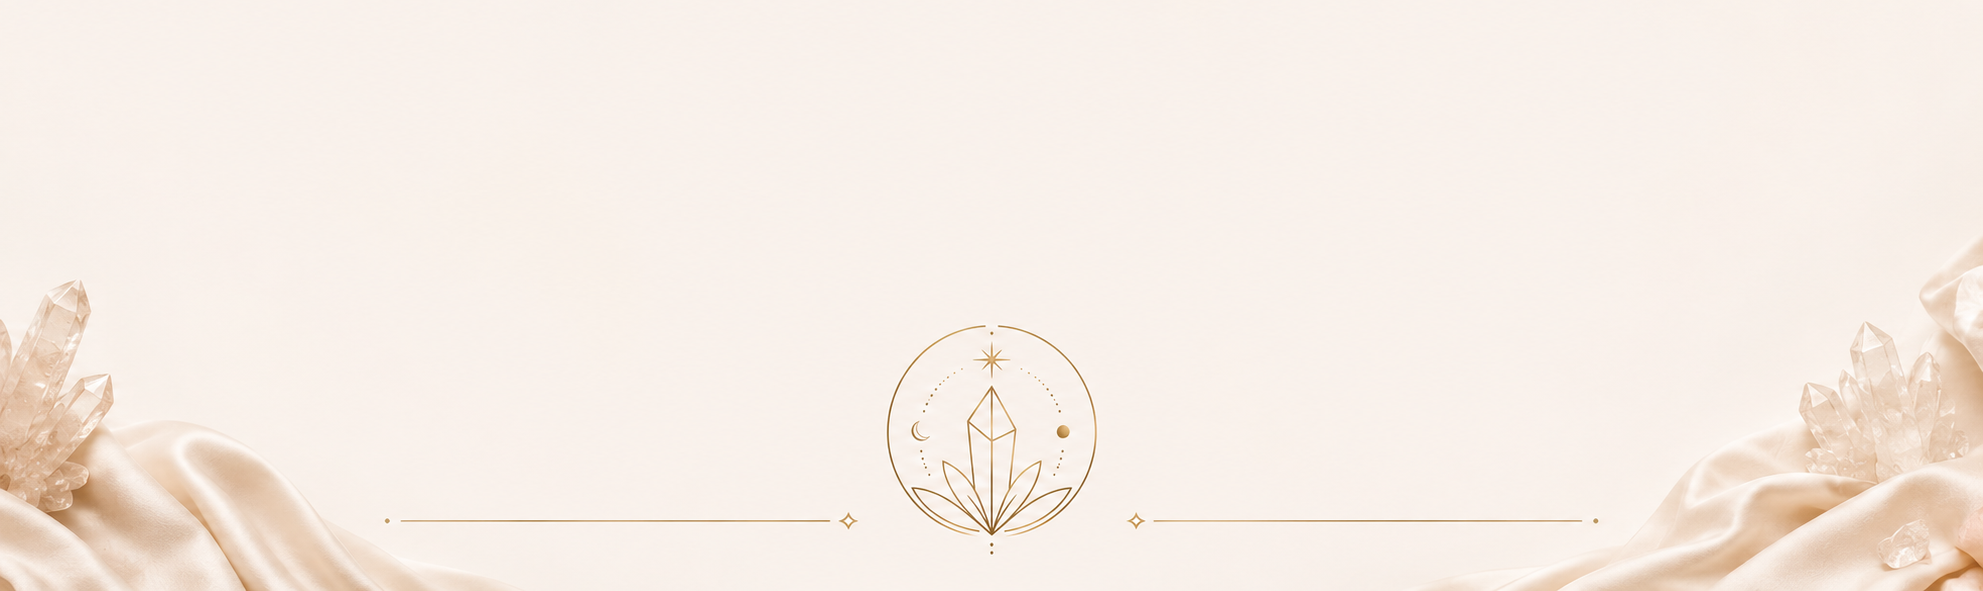
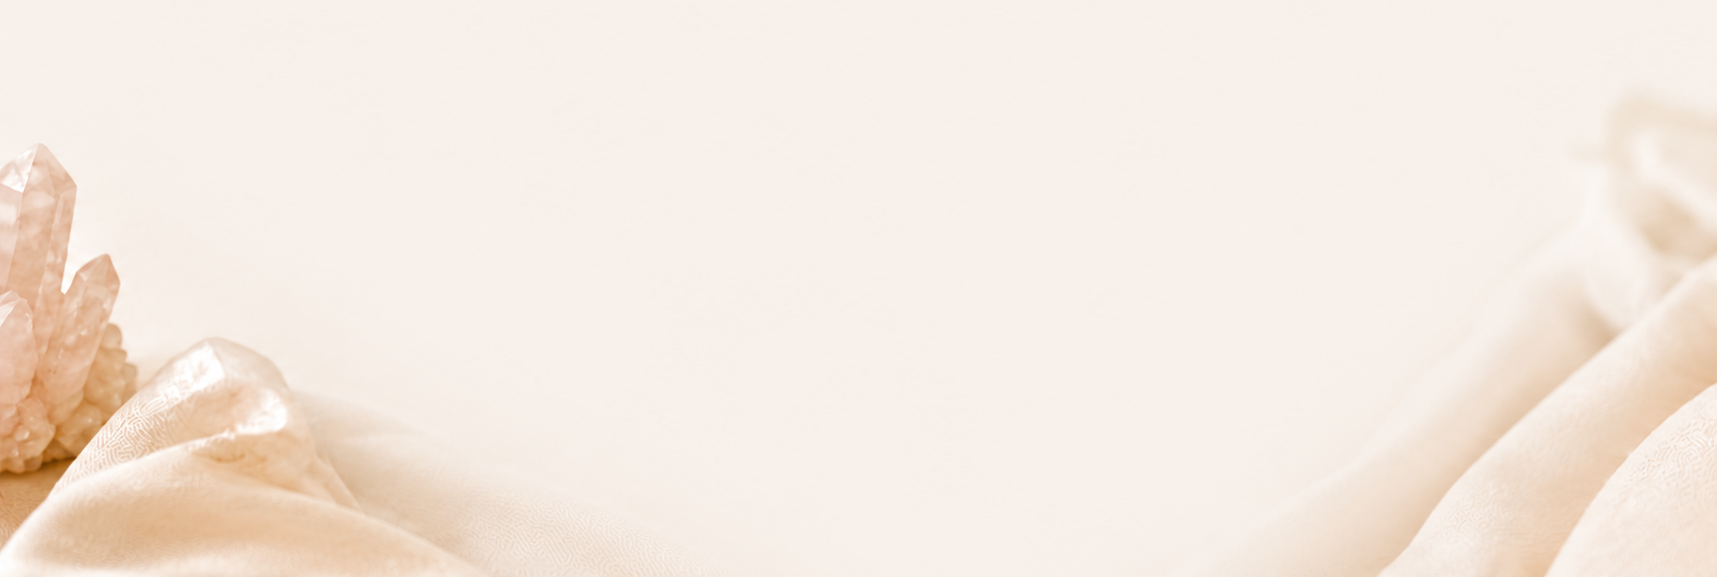
update footer

diff --git a/app/faq/page.tsx b/app/faq/page.tsx
@@ -1,0 +1,315 @@
+'use client'
+
+import { useState } from 'react'
+import Image from 'next/image'
+import Link from 'next/link'
+
+const SERIF: React.CSSProperties = { fontFamily: "'Cormorant Garamond', serif" }
+const BODY: React.CSSProperties  = { fontFamily: "'Montserrat', sans-serif" }
+
+/* ── FAQ data ──────────────────────────────────────────────────────── */
+
+const FAQS = [
+  {
+    q: 'How is my crystal bracelet personalized?',
+    a: 'We use your birth date and personal intention to analyze your Five Elements balance and energetic needs. Our AI then recommends the crystal combination that best supports your unique journey and goals — no two bracelets are ever the same.',
+  },
+  {
+    q: 'What are the Five Elements?',
+    a: 'Wood, Fire, Earth, Metal, and Water are the five fundamental energies that govern nature and our inner world. Each person carries a unique elemental composition that shapes their emotions, health, relationships, and energy flow. Understanding your elemental balance is the foundation of every SYANN bracelet.',
+  },
+  {
+    q: 'Are the crystals natural and authentic?',
+    a: 'Yes. Every SYANN bracelet is crafted using genuine, ethically sourced natural gemstones. Each crystal is carefully selected for quality, clarity, and energetic resonance — never synthetic, never dyed.',
+  },
+  {
+    q: 'How do I choose my intention?',
+    a: 'Your intention is the area of life you most want to nurture right now — whether it\'s love, career growth, emotional healing, confidence, or inner calm. There are no wrong answers. Choose what resonates most deeply with you in this moment.',
+  },
+  {
+    q: 'Can I wear my bracelet every day?',
+    a: 'Yes. Natural stone bracelets are designed for daily wear. In fact, consistent wear deepens the connection between the crystals\' energy and your own, allowing their resonance to integrate more fully into your energy field over time.',
+  },
+  {
+    q: 'Is it safe for sensitive skin?',
+    a: 'SYANN bracelets use natural stone beads and high-quality elastic cord. They are free from metals and chemical coatings, making them suitable for most skin types. If you have specific sensitivities, please contact us before purchasing and we will guide you personally.',
+  },
+  {
+    q: 'How long does shipping take?',
+    a: 'Standard shipping takes 5–10 business days depending on your location. Expedited options are available at checkout. All orders are carefully packed and fully tracked from our studio to your door.',
+  },
+  {
+    q: 'How do I care for my bracelet?',
+    a: 'Avoid prolonged exposure to water, perfume, and direct sunlight to preserve the stones\' natural luster. Cleanse your crystals periodically by placing them under moonlight or resting them on a selenite plate overnight. Store your bracelet separately to prevent scratching.',
+  },
+]
+
+/* ── small reusable pieces ─────────────────────────────────────────── */
+
+function SectionLabel({ children }: { children: React.ReactNode }) {
+  return (
+    <p className="mb-3 text-[10px] font-semibold uppercase tracking-[0.38em]"
+       style={{ color: '#B08B57', ...BODY }}>
+      {children}
+    </p>
+  )
+}
+
+function GoldBar() {
+  return <div className="mb-6 h-[1.5px] w-9" style={{ background: '#B08B57' }} />
+}
+
+function DiamondDivider() {
+  return (
+    <div className="flex items-center gap-0 my-7" style={{ maxWidth: 240 }}>
+      <div className="flex-1 h-px" style={{ background: 'linear-gradient(to right, rgba(176,139,87,0.5), transparent)' }} />
+      <svg width="8" height="8" viewBox="0 0 8 8" className="mx-3 shrink-0" aria-hidden="true">
+        <polygon points="4,0 8,4 4,8 0,4" fill="#B08B57" opacity="0.7" />
+      </svg>
+      <div className="flex-1 h-px" style={{ background: 'linear-gradient(to left, rgba(176,139,87,0.5), transparent)' }} />
+    </div>
+  )
+}
+
+/* ── accordion item ────────────────────────────────────────────────── */
+
+function AccordionItem({
+  question, answer, index, isOpen, onToggle,
+}: {
+  question: string
+  answer: string
+  index: number
+  isOpen: boolean
+  onToggle: () => void
+}) {
+  return (
+    <div
+      className="rounded-2xl transition-all duration-300"
+      style={{
+        background: isOpen ? '#FDFAF6' : '#FAF7F3',
+        border: `1px solid ${isOpen ? 'rgba(176,139,87,0.3)' : 'rgba(176,139,87,0.15)'}`,
+        boxShadow: isOpen ? '0 8px 32px -8px rgba(101,70,46,0.12)' : 'none',
+      }}
+    >
+      <button
+        type="button"
+        onClick={onToggle}
+        className="w-full text-left flex items-center gap-5 px-7 py-6 group"
+        aria-expanded={isOpen}
+      >
+        {/* Number */}
+        <span
+          className="shrink-0 text-[11px] font-semibold tabular-nums"
+          style={{ color: '#C9A96E', letterSpacing: '0.1em', ...BODY }}
+        >
+          {String(index + 1).padStart(2, '0')}
+        </span>
+
+        {/* Question */}
+        <span
+          className="flex-1 text-[15px] font-light leading-snug transition-colors duration-200"
+          style={{
+            ...SERIF,
+            color: isOpen ? '#3D2B1F' : '#5C4030',
+            fontSize: 17,
+          }}
+        >
+          {question}
+        </span>
+
+        {/* Expand / collapse icon */}
+        <span
+          className="shrink-0 flex h-7 w-7 items-center justify-center rounded-full transition-all duration-300"
+          style={{
+            background: isOpen ? 'rgba(176,139,87,0.14)' : 'transparent',
+            border: `1px solid ${isOpen ? 'rgba(176,139,87,0.4)' : 'rgba(176,139,87,0.25)'}`,
+            color: '#B08B57',
+            transform: isOpen ? 'rotate(45deg)' : 'rotate(0deg)',
+          }}
+        >
+          <svg width="11" height="11" viewBox="0 0 12 12" fill="none" stroke="currentColor" strokeWidth="1.6" strokeLinecap="round">
+            <line x1="6" y1="1" x2="6" y2="11" />
+            <line x1="1" y1="6" x2="11" y2="6" />
+          </svg>
+        </span>
+      </button>
+
+      {/* Answer */}
+      <div
+        style={{
+          maxHeight: isOpen ? 400 : 0,
+          overflow: 'hidden',
+          transition: 'max-height 0.4s cubic-bezier(0.4,0,0.2,1)',
+        }}
+      >
+        <div className="px-7 pb-7 pt-0 flex gap-5">
+          {/* Left accent bar */}
+          <div className="shrink-0 mt-1" style={{ width: 1.5, background: 'linear-gradient(to bottom, #B08B57, transparent)', borderRadius: 2, minHeight: 40 }} />
+          <p
+            className="text-[13px] leading-[1.95]"
+            style={{ color: '#7A6355', ...BODY }}
+          >
+            {answer}
+          </p>
+        </div>
+      </div>
+    </div>
+  )
+}
+
+/* ── page ──────────────────────────────────────────────────────────── */
+
+export default function FAQPage() {
+  const [openIndex, setOpenIndex] = useState<number | null>(0)
+
+  const toggle = (i: number) => setOpenIndex(prev => (prev === i ? null : i))
+
+  return (
+    <main style={{ background: '#F6F1EB', color: '#4A3A32', ...BODY }}>
+
+      {/* ════════════════════════════════════════════════════
+          1 · HERO
+      ════════════════════════════════════════════════════ */}
+      <section className="grid grid-cols-1 lg:grid-cols-2 min-h-[72vh]">
+
+        {/* Left */}
+        <div className="flex flex-col justify-center px-10 py-20 lg:px-20 lg:py-0">
+          <SectionLabel>FAQ</SectionLabel>
+          <GoldBar />
+
+          <h1
+            style={{ ...SERIF }}
+            className="text-5xl font-light leading-[1.15] text-[#3D2B1F] lg:text-6xl"
+          >
+            Frequently
+            <br />Asked Questions
+          </h1>
+
+          <DiamondDivider />
+
+          <p className="text-[13.5px] leading-[1.9] text-[#7A6355] max-w-sm">
+            Everything you need to know about SYANN, our crystals, and your
+            personalized bracelet journey.
+          </p>
+
+          {/* Soft glow accent */}
+          <div
+            className="mt-12 inline-flex items-center gap-2.5 text-[11px] font-medium uppercase tracking-[0.28em]"
+            style={{ color: '#B08B57', ...BODY }}
+          >
+            <svg width="14" height="14" viewBox="0 0 24 24" fill="none" stroke="currentColor" strokeWidth="1.4" strokeLinecap="round" strokeLinejoin="round">
+              <polygon points="12 2 17 9 12 22 7 9" />
+              <line x1="7" y1="9" x2="17" y2="9" />
+            </svg>
+            8 questions answered below
+          </div>
+        </div>
+
+        {/* Right — image */}
+        <div className="relative min-h-[440px] lg:min-h-0 m-6 lg:m-8 overflow-hidden rounded-3xl shadow-[0_24px_64px_-16px_rgba(101,70,46,0.22)]"
+             style={{ background: '#EDE4D8' }}>
+          <Image
+            src="/faq-hero.jpg"
+            alt="SYANN crystal bracelet editorial"
+            fill
+            className="object-cover"
+            priority
+          />
+          <div className="absolute inset-0" style={{ background: 'rgba(244,238,230,0.1)' }} />
+        </div>
+
+      </section>
+
+
+      {/* ════════════════════════════════════════════════════
+          2 · FAQ ACCORDION
+      ════════════════════════════════════════════════════ */}
+      <section className="py-24 px-6">
+        <div className="mx-auto max-w-3xl">
+
+          {/* Section header */}
+          <div className="text-center mb-14">
+            <SectionLabel>Your Questions</SectionLabel>
+            <h2 style={{ ...SERIF }} className="text-4xl font-light text-[#3D2B1F] lg:text-5xl">
+              All you need to know
+            </h2>
+          </div>
+
+          {/* Accordion list */}
+          <div className="flex flex-col gap-3">
+            {FAQS.map((faq, i) => (
+              <AccordionItem
+                key={i}
+                index={i}
+                question={faq.q}
+                answer={faq.a}
+                isOpen={openIndex === i}
+                onToggle={() => toggle(i)}
+              />
+            ))}
+          </div>
+
+          {/* Subtle bottom ornament */}
+          <div className="mt-14 flex items-center gap-0">
+            <div className="flex-1 h-px" style={{ background: 'linear-gradient(to right, transparent, rgba(176,139,87,0.3))' }} />
+            <svg width="10" height="10" viewBox="0 0 10 10" className="mx-4 shrink-0" aria-hidden="true">
+              <polygon points="5,0 10,5 5,10 0,5" fill="#B08B57" opacity="0.45" />
+            </svg>
+            <div className="flex-1 h-px" style={{ background: 'linear-gradient(to left, transparent, rgba(176,139,87,0.3))' }} />
+          </div>
+
+        </div>
+      </section>
+
+
+      {/* ════════════════════════════════════════════════════
+          3 · CONTACT CTA
+      ════════════════════════════════════════════════════ */}
+      <section className="px-6 pb-28">
+        <div
+          className="mx-auto max-w-3xl flex flex-col sm:flex-row items-center justify-between gap-8 rounded-3xl px-10 py-10"
+          style={{
+            background: 'linear-gradient(135deg, #F4EDE2 0%, #EDE4D6 100%)',
+            border: '1px solid rgba(176,139,87,0.2)',
+            boxShadow: '0 16px 48px -12px rgba(101,70,46,0.14)',
+          }}
+        >
+          {/* Left */}
+          <div className="flex items-start gap-5">
+            <div
+              className="flex h-12 w-12 shrink-0 items-center justify-center rounded-full"
+              style={{ background: 'rgba(176,139,87,0.12)', color: '#B08B57' }}
+            >
+              <svg width="22" height="22" viewBox="0 0 24 24" fill="none" stroke="currentColor" strokeWidth="1.3" strokeLinecap="round" strokeLinejoin="round">
+                <polygon points="12 2 17 9 12 22 7 9" />
+                <line x1="7" y1="9" x2="17" y2="9" />
+              </svg>
+            </div>
+            <div>
+              <h3 style={{ ...SERIF }} className="text-2xl font-light text-[#3D2B1F] mb-1.5">
+                Still have questions?
+              </h3>
+              <p className="text-[13px] text-[#9A8070] leading-relaxed" style={{ ...BODY }}>
+                We're here to help you on your journey.
+              </p>
+            </div>
+          </div>
+
+          {/* Right — button */}
+          <Link
+            href="/contact"
+            className="shrink-0 inline-flex items-center gap-2.5 rounded-full px-8 py-3.5 text-[11px] font-semibold uppercase tracking-[0.28em] text-white transition-all duration-300 hover:shadow-lg hover:opacity-90"
+            style={{ background: '#B08B57', ...BODY }}
+          >
+            Contact Us
+            <svg width="11" height="11" viewBox="0 0 24 24" fill="none" stroke="currentColor" strokeWidth="2.2" strokeLinecap="round" strokeLinejoin="round">
+              <line x1="5" y1="12" x2="19" y2="12" />
+              <polyline points="12 5 19 12 12 19" />
+            </svg>
+          </Link>
+        </div>
+      </section>
+
+    </main>
+  )
+}